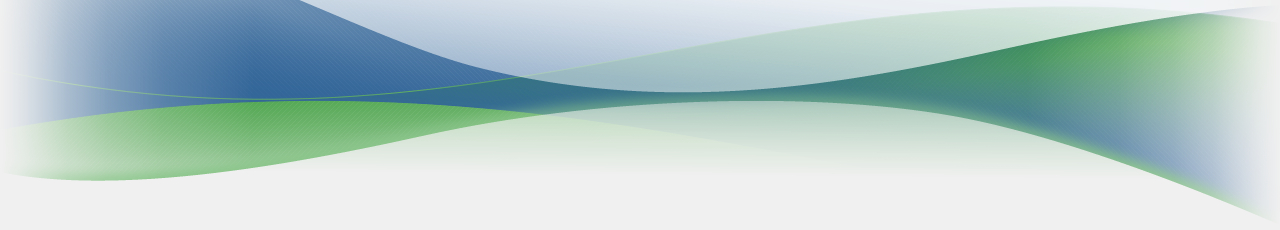
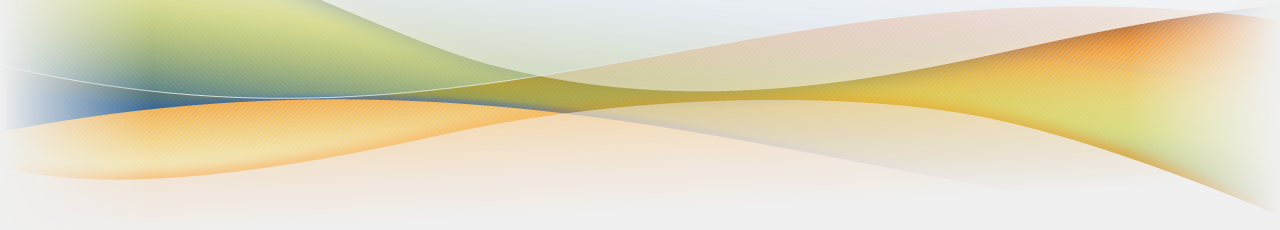
prime modifiche brand

diff --git a/css/admize.css b/css/admize.css
@@ -16,14 +16,14 @@
 }*/
 
 html {
-	//background: #F0F0F0;
-	background: #222;
+	background: #F0F0F0;
+	//background: #222;
 }
 
 body {
 	-webkit-font-smoothing: antialiased;
-	//background: #F0F0F0 url(../images/bg_header_2.png) no-repeat center 0px;
-	background: #222 url(../images/bg_header_grad.png) repeat-x center 0px;
+	background: #F0F0F0 url(../images/bg_header_2.png) no-repeat center 0px;
+	//background: #222 url(../images/bg_header_grad.png) repeat-x center 0px;
 	margin: 0;
 	padding: 0;
 	font-family: Arial, Helvetica, sans-serif;
@@ -244,8 +244,8 @@ header #header{
 header h1 {
 	background: transparent url(../images/logo.png) no-repeat 0 0;
 	float: left;
-	width: 195px;
-	height: 52px;
+	width: 197px;
+	height: 54px;
 	display: block;
 	margin: 0;
 	padding: 0;

diff --git a/index.php b/index.php
@@ -37,7 +37,7 @@
         </div>
     </div>
     <div class="clearer forty"></div>
-    <div class="clearer forty"></div>
+    <!--<div class="clearer forty"></div>
     <div class="half">
         <h2 class="icon_case_study">Casi di studio</h2>
     </div>
@@ -53,19 +53,19 @@
                 <h3>Portale  informativo e  sistema di configurazione e vendita di impianti fotovoltaici</h3>
                 <p>Conto-energia.biz è un portale dedicato al mondo del fotovoltaico. Ricco di contenuti informativi, il suo punto di forza &egrave; l'esclusivo "configuratore d'impianto", che permette di valutare in tempo reale la realizzazione del proprio impianto...</p>
                 <a href="<?php echo $server_url; ?>su-noi/casi-di-studio.php" class="button_segui_reflex">scopri di pi&ugrave; &raquo;</a> </li>
-            <li><a href="<?php echo $server_url; ?>su-noi/casi-di-studio.php"><img src="<?php echo $server_url; ?>images/case-study/es_1_thumb.png" width="332" height="203" alt="Schermata home page EcoSeekr.eu"></a>
+				<li><a href="<?php echo $server_url; ?>su-noi/casi-di-studio.php"><img src="<?php echo $server_url; ?>images/case-study/es_1_thumb.png" width="332" height="203" alt="Schermata home page EcoSeekr.eu"></a>
                 <h2>EcoSeekr</h2>
                 <h3>Fiera virtuale rivolta a tutti gli operatori direttamente e indirettamente operanti nel settore dell'ambiente, energia e rifiuti</h3>
                 <p></p>
                 <a href="<?php echo $server_url; ?>su-noi/casi-di-studio.php" class="button_segui_reflex">scopri di pi&ugrave; &raquo;</a> </li>
-<!--            <li><a href="<?php echo $server_url; ?>su-noi/casi-di-studio.php"><img src="<?php echo $server_url; ?>images/case-study/hp_1_thumb.png" width="332" height="203" alt="Schermata home page HostessPRO.it"></a>
+				<li><a href="<?php echo $server_url; ?>su-noi/casi-di-studio.php"><img src="<?php echo $server_url; ?>images/case-study/hp_1_thumb.png" width="332" height="203" alt="Schermata home page HostessPRO.it"></a>
                 <h2>HostessPRO</h2>
                 <h3>Portale per corsi e workshop in tutta italia per Hostess congressuali, eventi o promoter.</h3>
                 <p></p>
                 <a href="<?php echo $server_url; ?>su-noi/casi-di-studio.php" class="button_segui_reflex">scopri di pi&ugrave; &raquo;</a> </li>
--->
+
         </ul>
-    </div>
+    </div>-->
     <div class="half">
         <h2 class="icon_social_area">Social Area</h2>
     </div>
